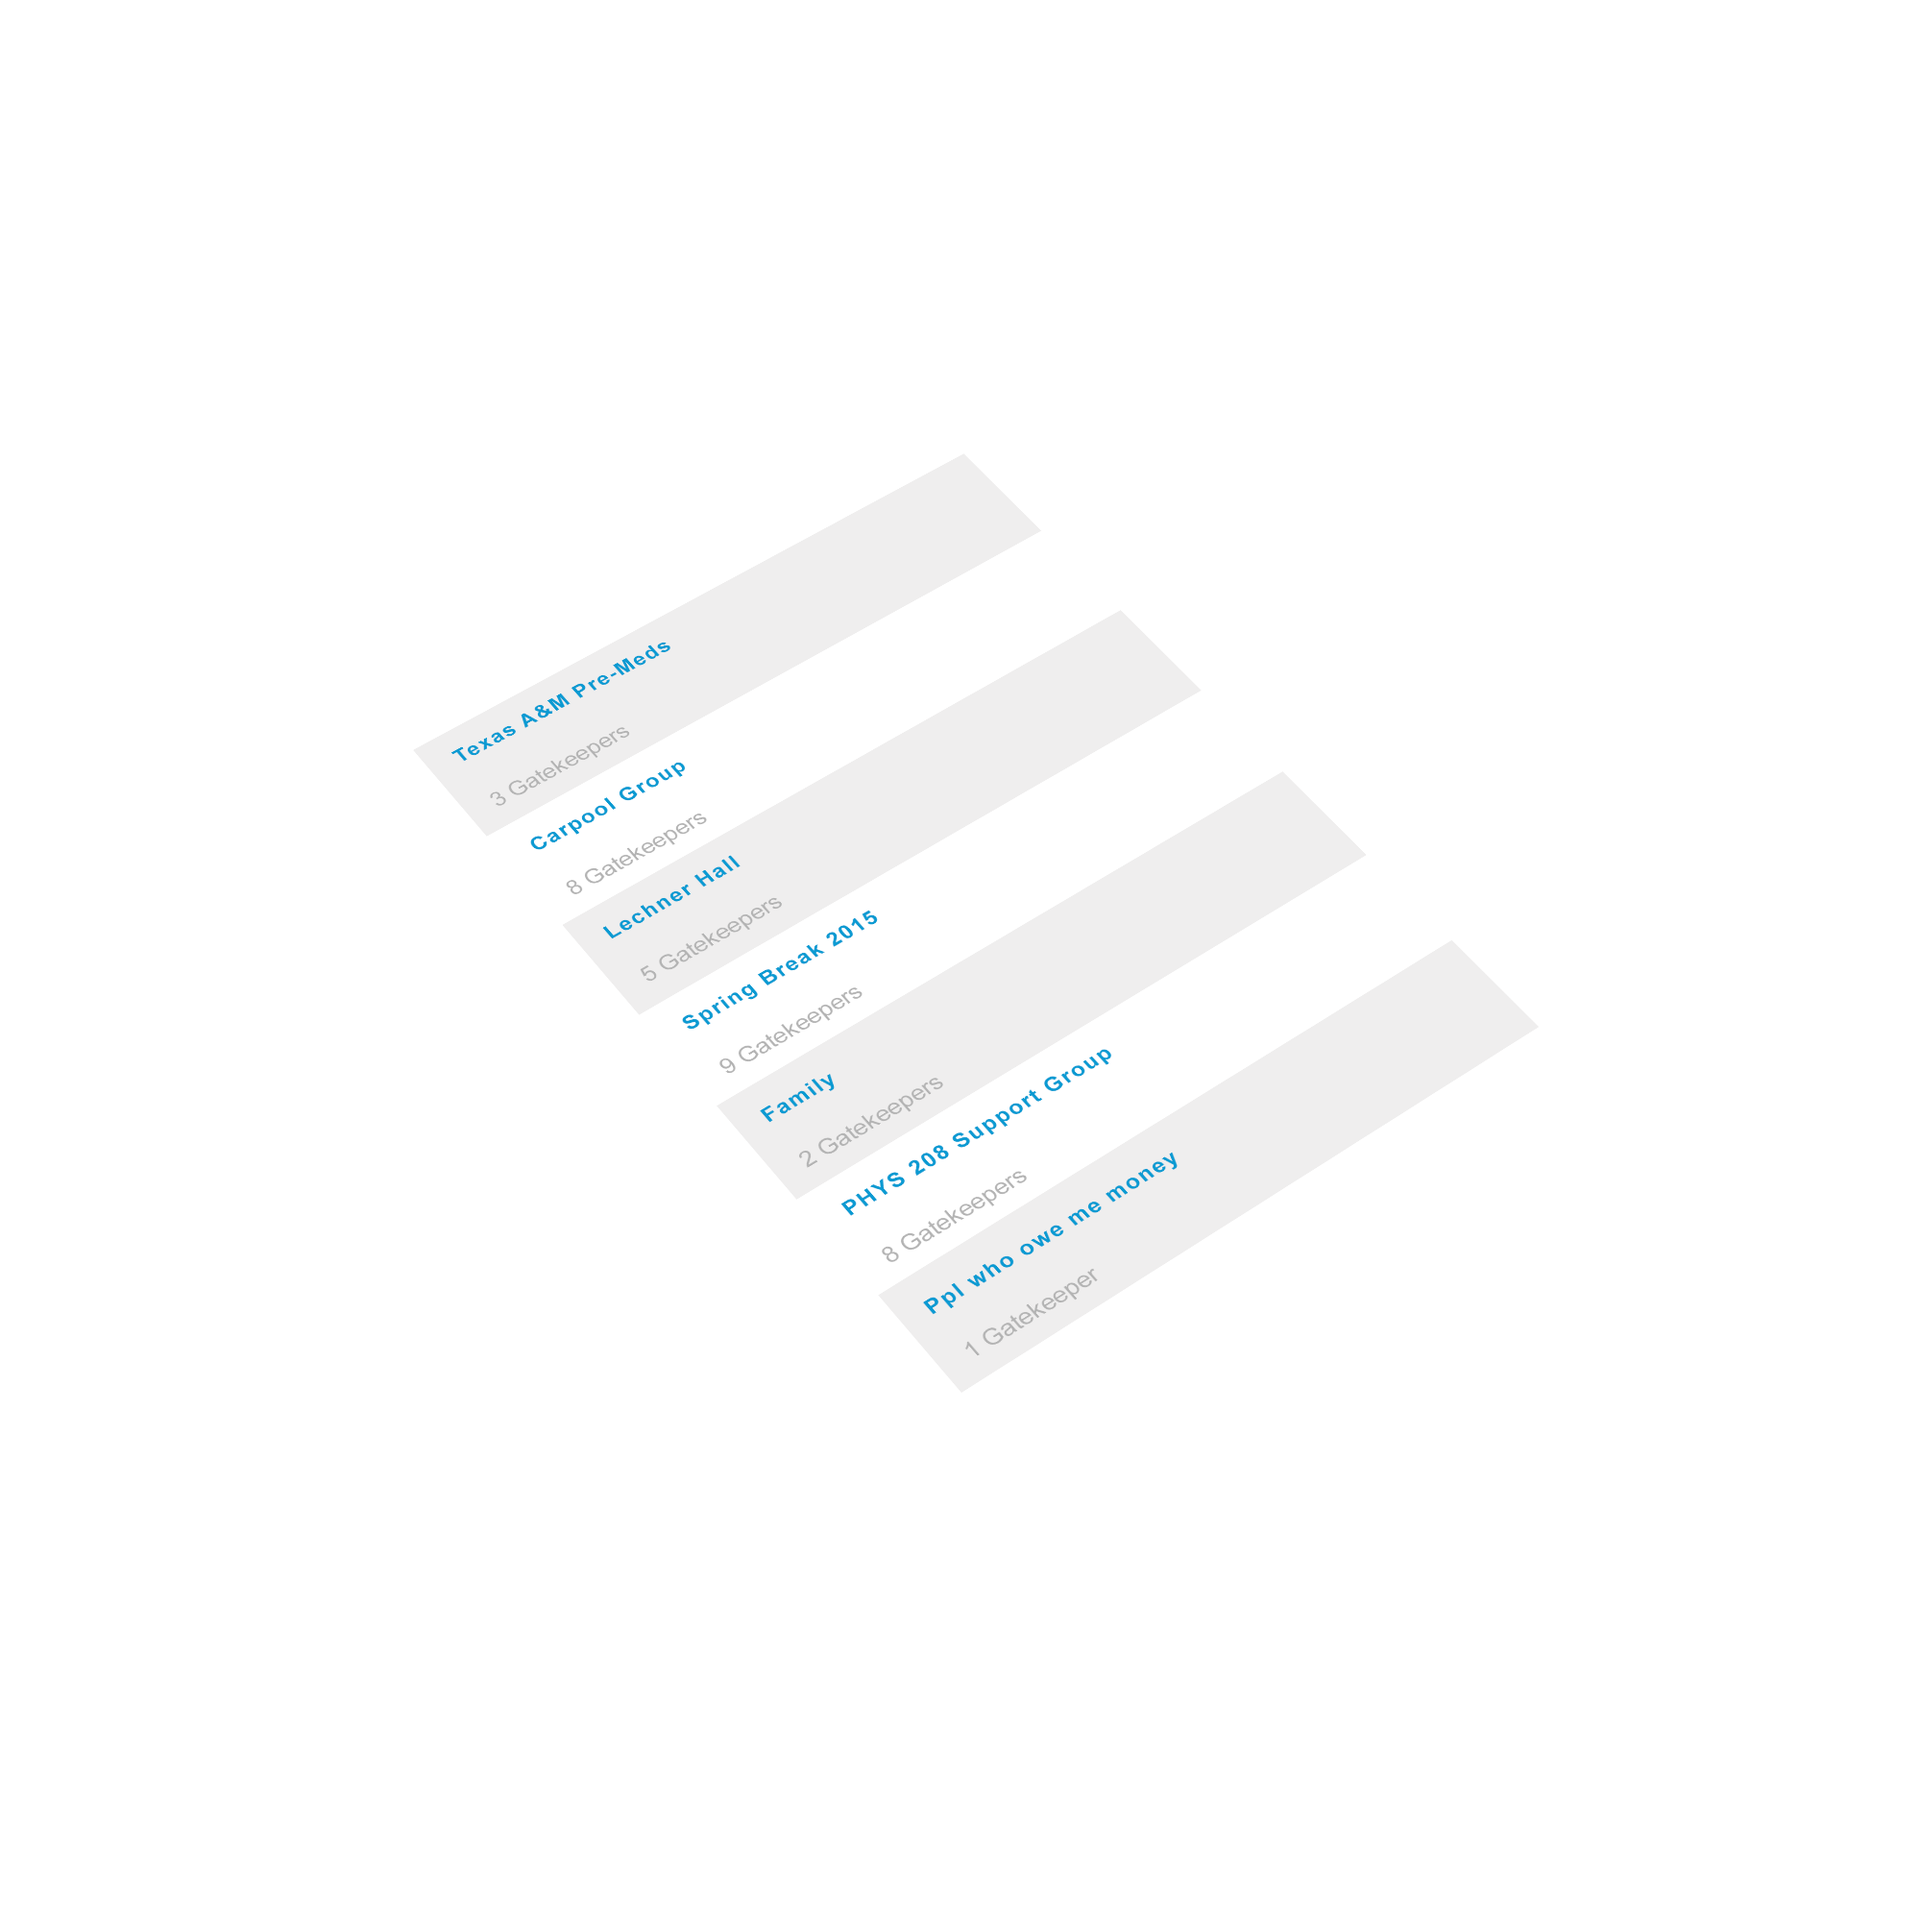
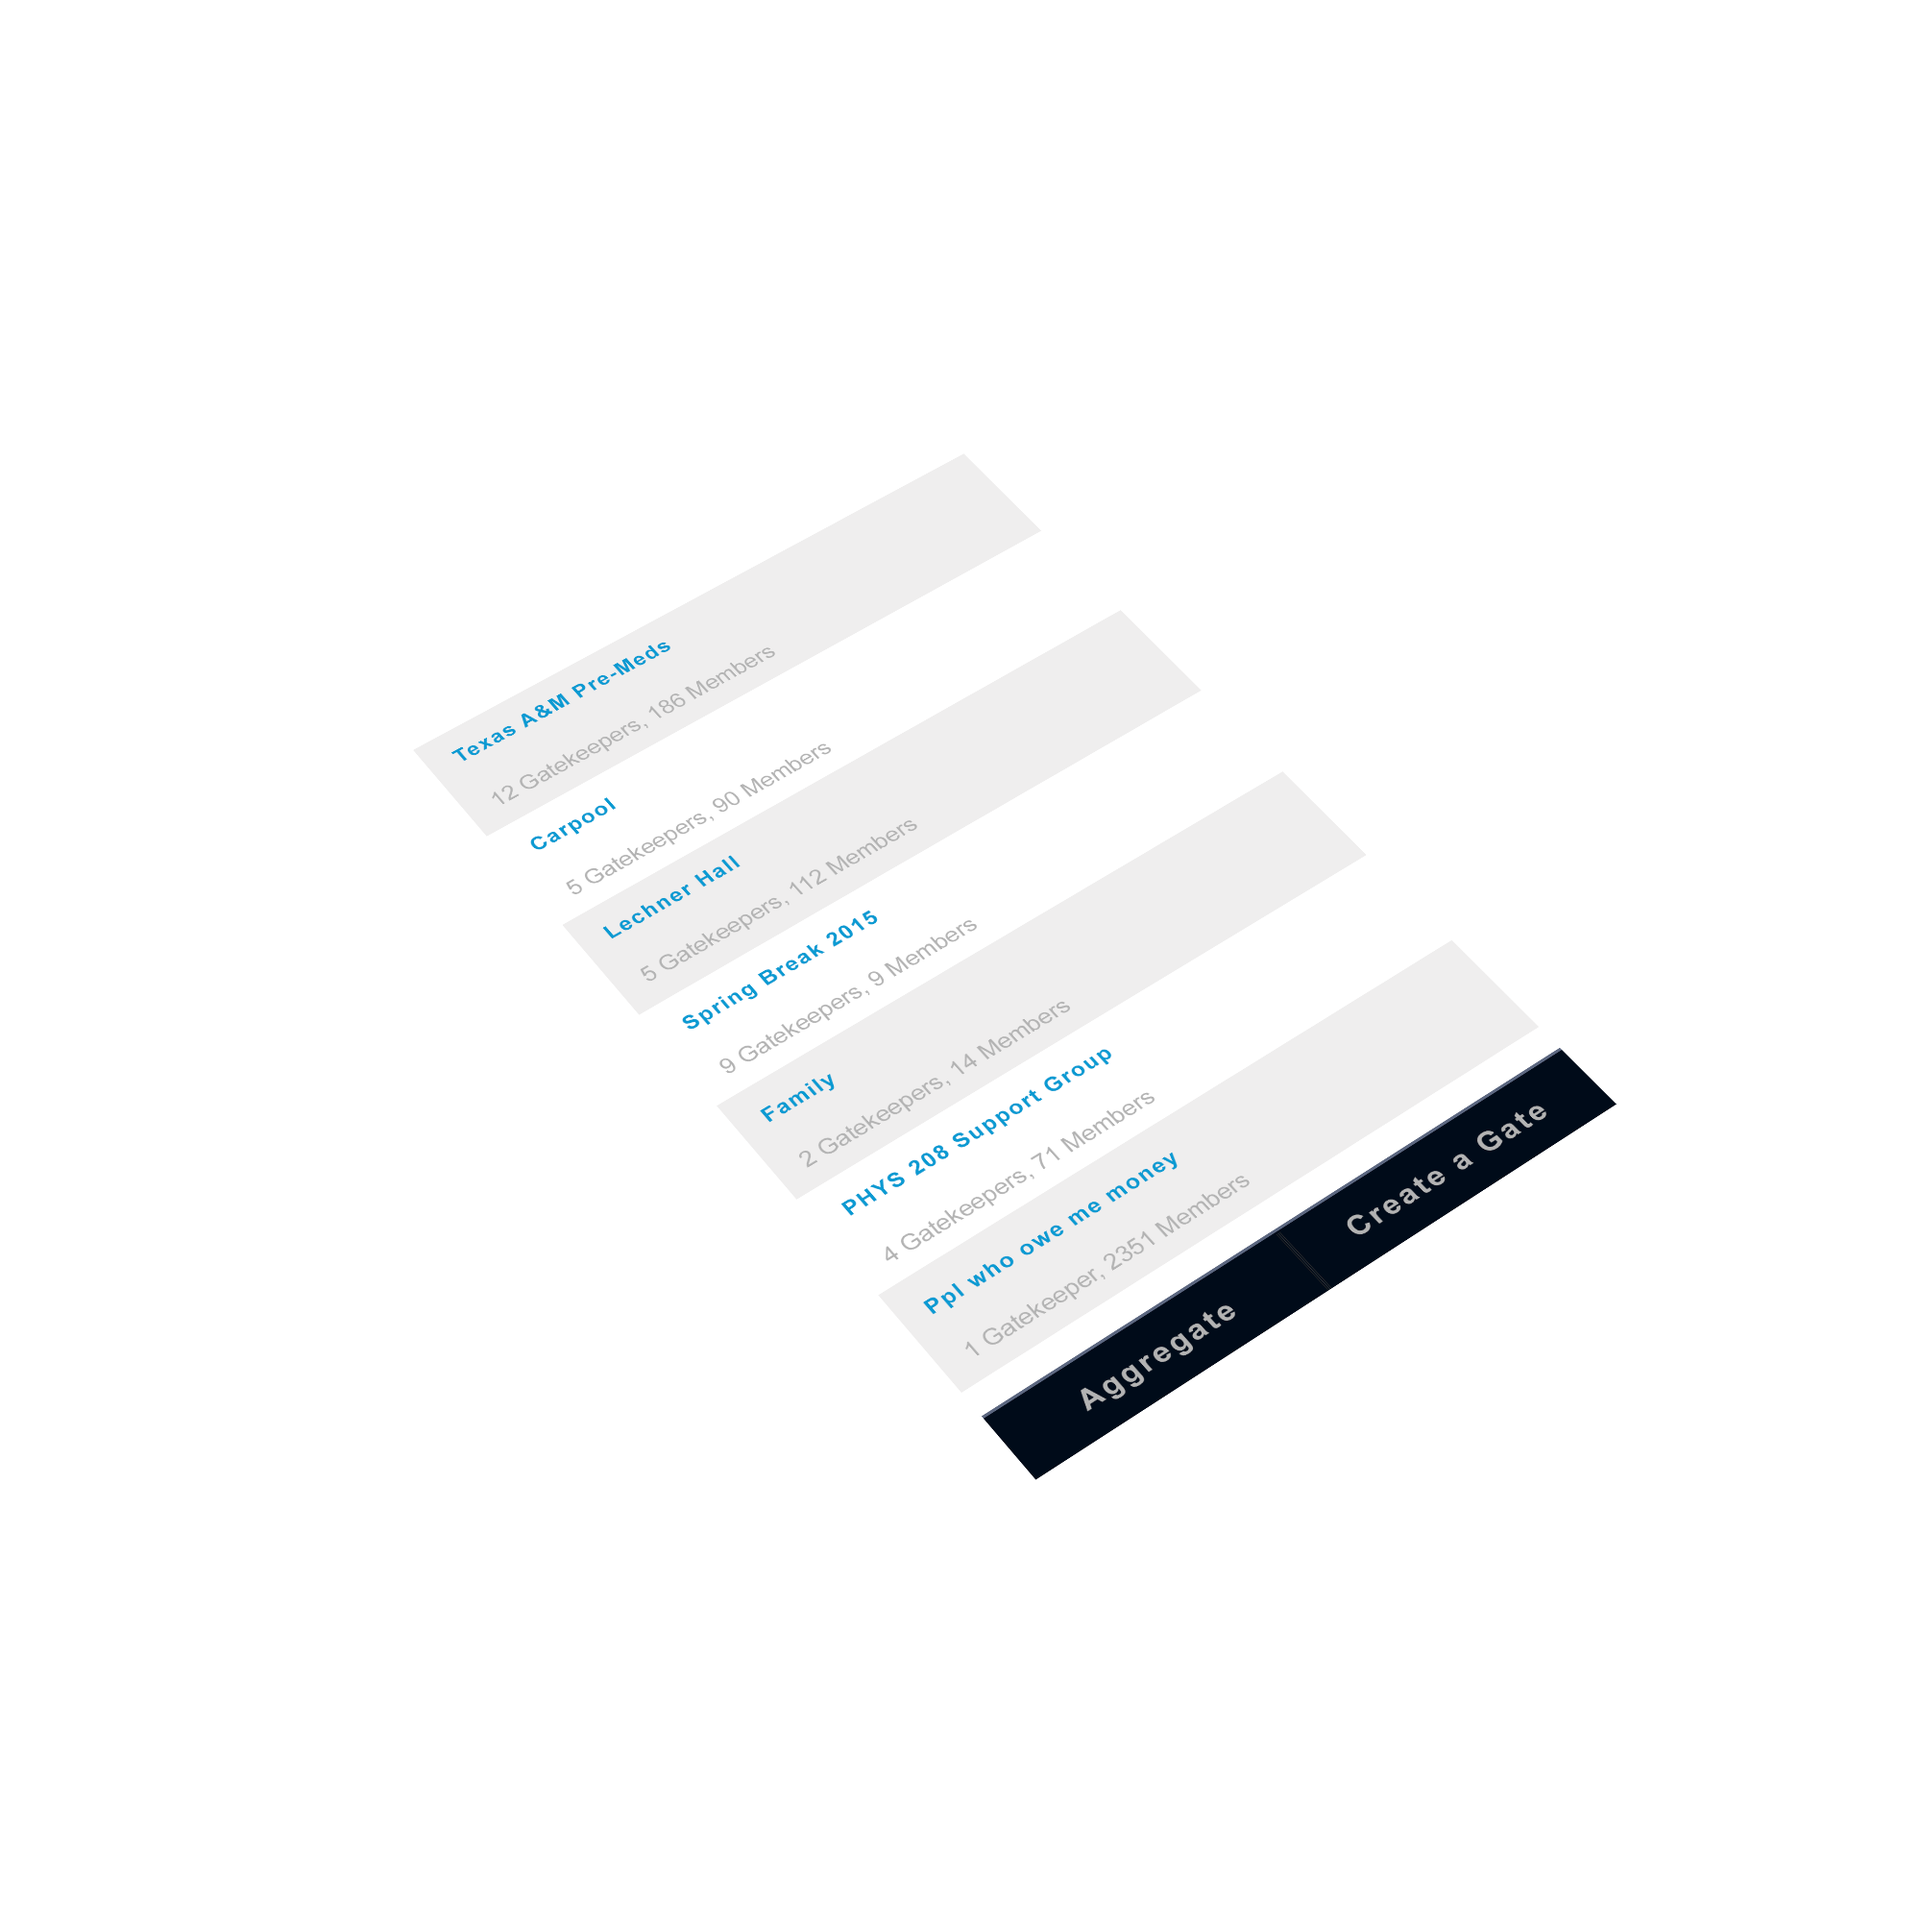
feeds clean up counter

Changed region(s): [[0.496, 0.527, 0.837, 0.775], [0.372, 0.403, 0.403, 0.434]]

diff --git a/index2.html b/index2.html
@@ -261,6 +261,7 @@
          -o-transition: all .6s ease-in-out; /** Opera **/
       }
       
+      
       .feeds-container {
         position: relative;
         z-index: 9;
@@ -297,6 +298,28 @@
       }
       
       
+      .gate-container {
+        position: relative;
+        z-index: 9;
+      }
+      .gate-container img {
+        width: 100%;
+        transition: all .6s ease-in-out;
+         -webkit-transition: all .6s ease-in-out; /** Chrome & Safari **/
+         -moz-transition: all .6s ease-in-out; /** Firefox **/
+         -o-transition: all .6s ease-in-out; /** Opera **/
+      }
+      .gate-screen div {
+        position: absolute;
+      }
+      .gate-screen {
+        z-index: 1;
+        opacity: 0;
+      }
+      .gate-screen-added-overlay {
+        z-index: 1;
+        opacity: 0;
+      }
       
 /*GATE HEADER AND TAGLINE*/
       .gate-header {
@@ -367,8 +390,8 @@
             $feedsScreen = $('.feeds-screen'),
             $feedsLike = $('.feeds-like'),
             $feedsLike2 = $('.feeds-like2'),
-            $feedsCounter = $('.feeds-counter'),
-            $feedsCounter2 = $('.feeds-counter2');
+            $gateScreen = $('.gate-screen'),
+            $gateScreenOverlay = $('.gate-screen-added-overlay ');
         // setInterval(function() {
             
         //Pause before the start of all the animations
@@ -433,14 +456,14 @@
                       $feedsScreen.css({'opacity': 0.6});
                       //Display liking functionality and increase the counter on the screen
                       setTimeout(function() {
-                        $feedsLike.css({'opacity': 0.5});
+                        // $feedsLike.css({'opacity': 0.5});
                         setTimeout(function() {
                           // $feedsCounter.css({'opacity': 1});
                         }, 500);
                       }, 1500);
 
                       setTimeout(function() {
-                        $feedsLike2.css({'opacity': 0.5});
+                        // $feedsLike2.css({'opacity': 0.5});
                         // setTimeout(function() {
                         //   $feedsCounter2.css({'opacity': 0.7});
                         // }, 500);
@@ -459,6 +482,7 @@
                             $deviceBand1.fadeOut();
                             $deviceBand2.css({'opacity': '0'});
                             $deviceAppHeader.fadeOut();
+                            // $feedsScreen.css({'opacity': '0'});
                           }, 900);
 
                         }, 900);
@@ -572,14 +596,13 @@
       <div class="feeds-container">
         <img class="feeds-like" src="android_blue_like.png">
         <img class="feeds-like2" src="android_blue_like2.png">
-        <img class="feeds-counter" src="android_like_count.png">
-        <img class="feeds-counter2" src="android_like_count2.png">
         <img class="feeds-screen" src="android_feeds_screen.png">
       </div>
       
       <!--Gate Screen -->
       <div class="gate-container">
-        <img class="gate-screen" src="gate_screen.png">
+        <!-- <img class="gate-screen" src="gate_screen.png"> -->
+        <img class="gate-screen-added-overlay" src="gate_screen_added_overlay.png">
       </div>
 
       <div class="device-app-header">feed&nbsp;&nbsp;&nbsp;&nbsp;&nbsp;&nbsp;&nbsp;&nbsp;&nbsp;&nbsp;&nbsp;&nbsp; gates</div>
